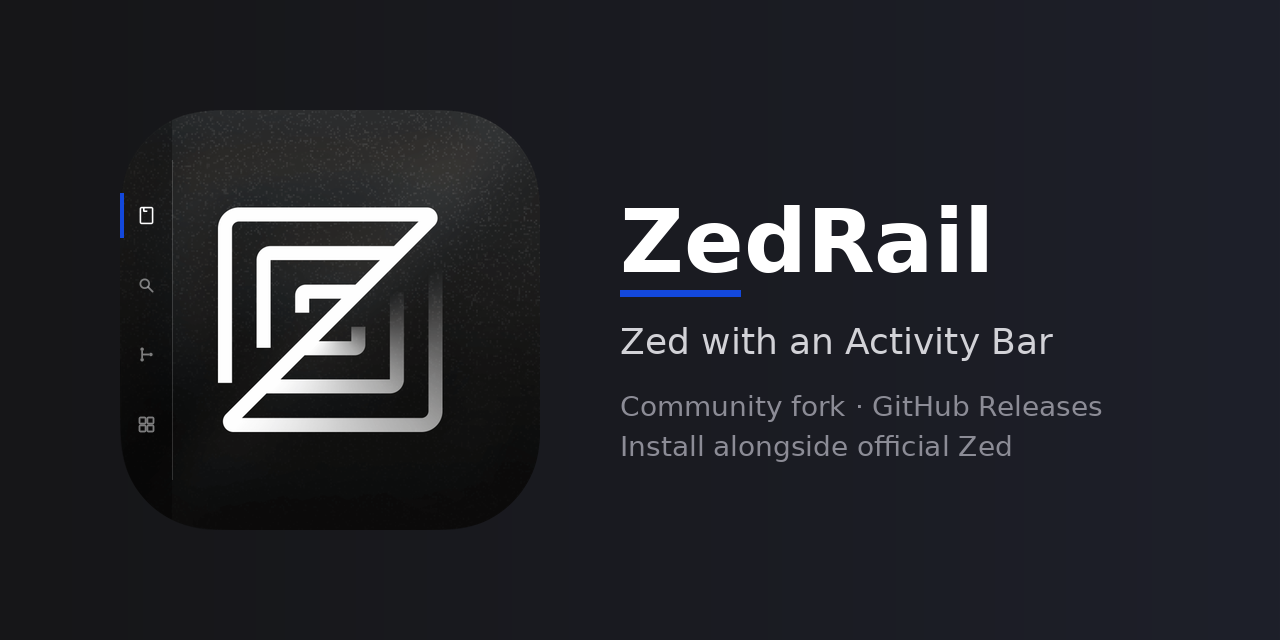
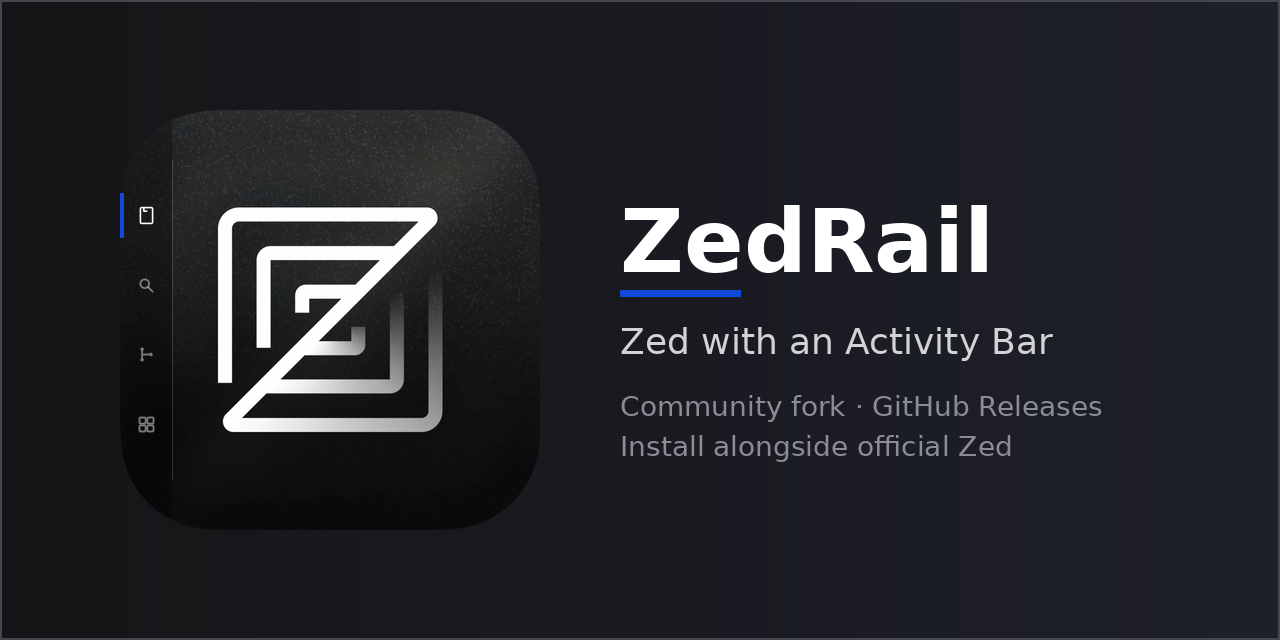
Fix social preview assets for reliable GitHub upload
Add a visible border for the settings preview and export a JPEG fallback.

diff --git a/script/generate-zedrail-icons.py b/script/generate-zedrail-icons.py
@@ -193,6 +193,13 @@ def generate_social_preview(width: int = 1280, height: int = 640) -> Image.Image
         font=detail_font,
     )
 
+    # Visible frame so GitHub's dark settings preview is not mistaken for an empty slot.
+    draw.rectangle(
+        [(0, 0), (width - 1, height - 1)],
+        outline=(70, 70, 78, 255),
+        width=2,
+    )
+
     return background.convert("RGB")
 
 
@@ -239,6 +246,10 @@ def main() -> int:
     social_preview_path = BRAND_DIR / "zedrail-social-preview.png"
     social_preview.save(social_preview_path, optimize=True)
     print(f"Wrote {social_preview_path} (1280×640 GitHub social preview)")
+
+    social_preview_jpg = BRAND_DIR / "zedrail-social-preview.jpg"
+    social_preview.save(social_preview_jpg, quality=92, optimize=True)
+    print(f"Wrote {social_preview_jpg} (1280×640 JPEG alternative)")
 
     return 0
 

diff --git a/crates/zed/resources/brand/README.md b/crates/zed/resources/brand/README.md
@@ -31,7 +31,9 @@ Requires `python3`, `Pillow`, `rsvg-convert` (librsvg), and `magick` (ImageMagic
 
 ## GitHub Social preview
 
-Upload `zedrail-social-preview.png` under **Settings → General → Social preview → Edit** (1280×640 recommended).
+Upload `zedrail-social-preview.png` (or `.jpg` if PNG fails) under **Settings → General → Social preview → Edit** (1280×640 recommended).
+
+After saving, open the `og:image` URL from the repo page source — it must return HTTP 200, not 404. If the settings preview stays empty, click **Remove image**, re-upload, and **Save changes** again.
 
 ## Trademark
 
